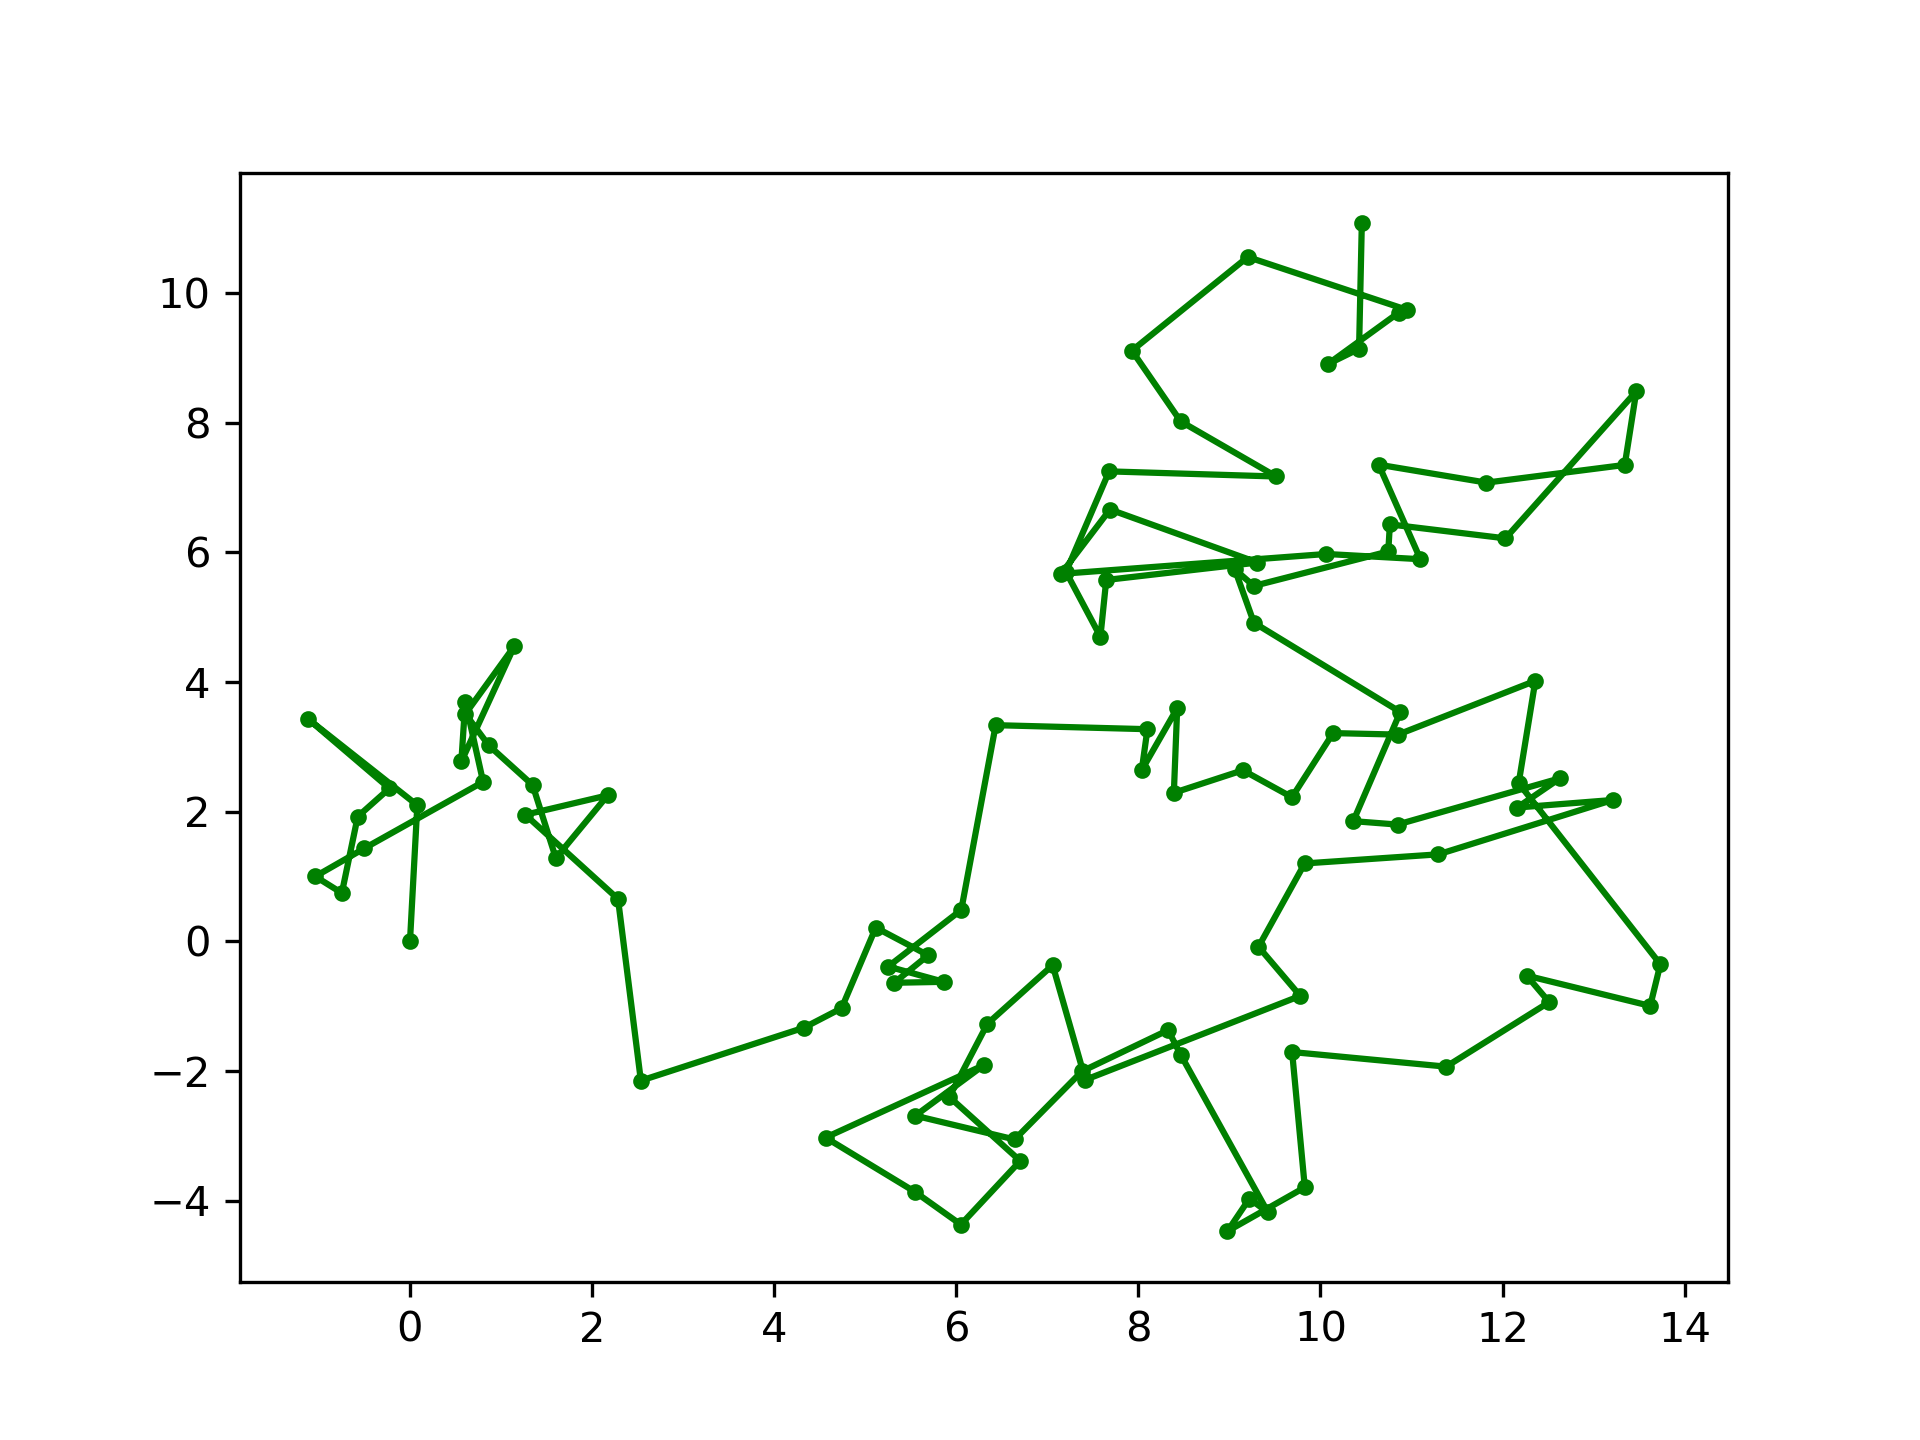
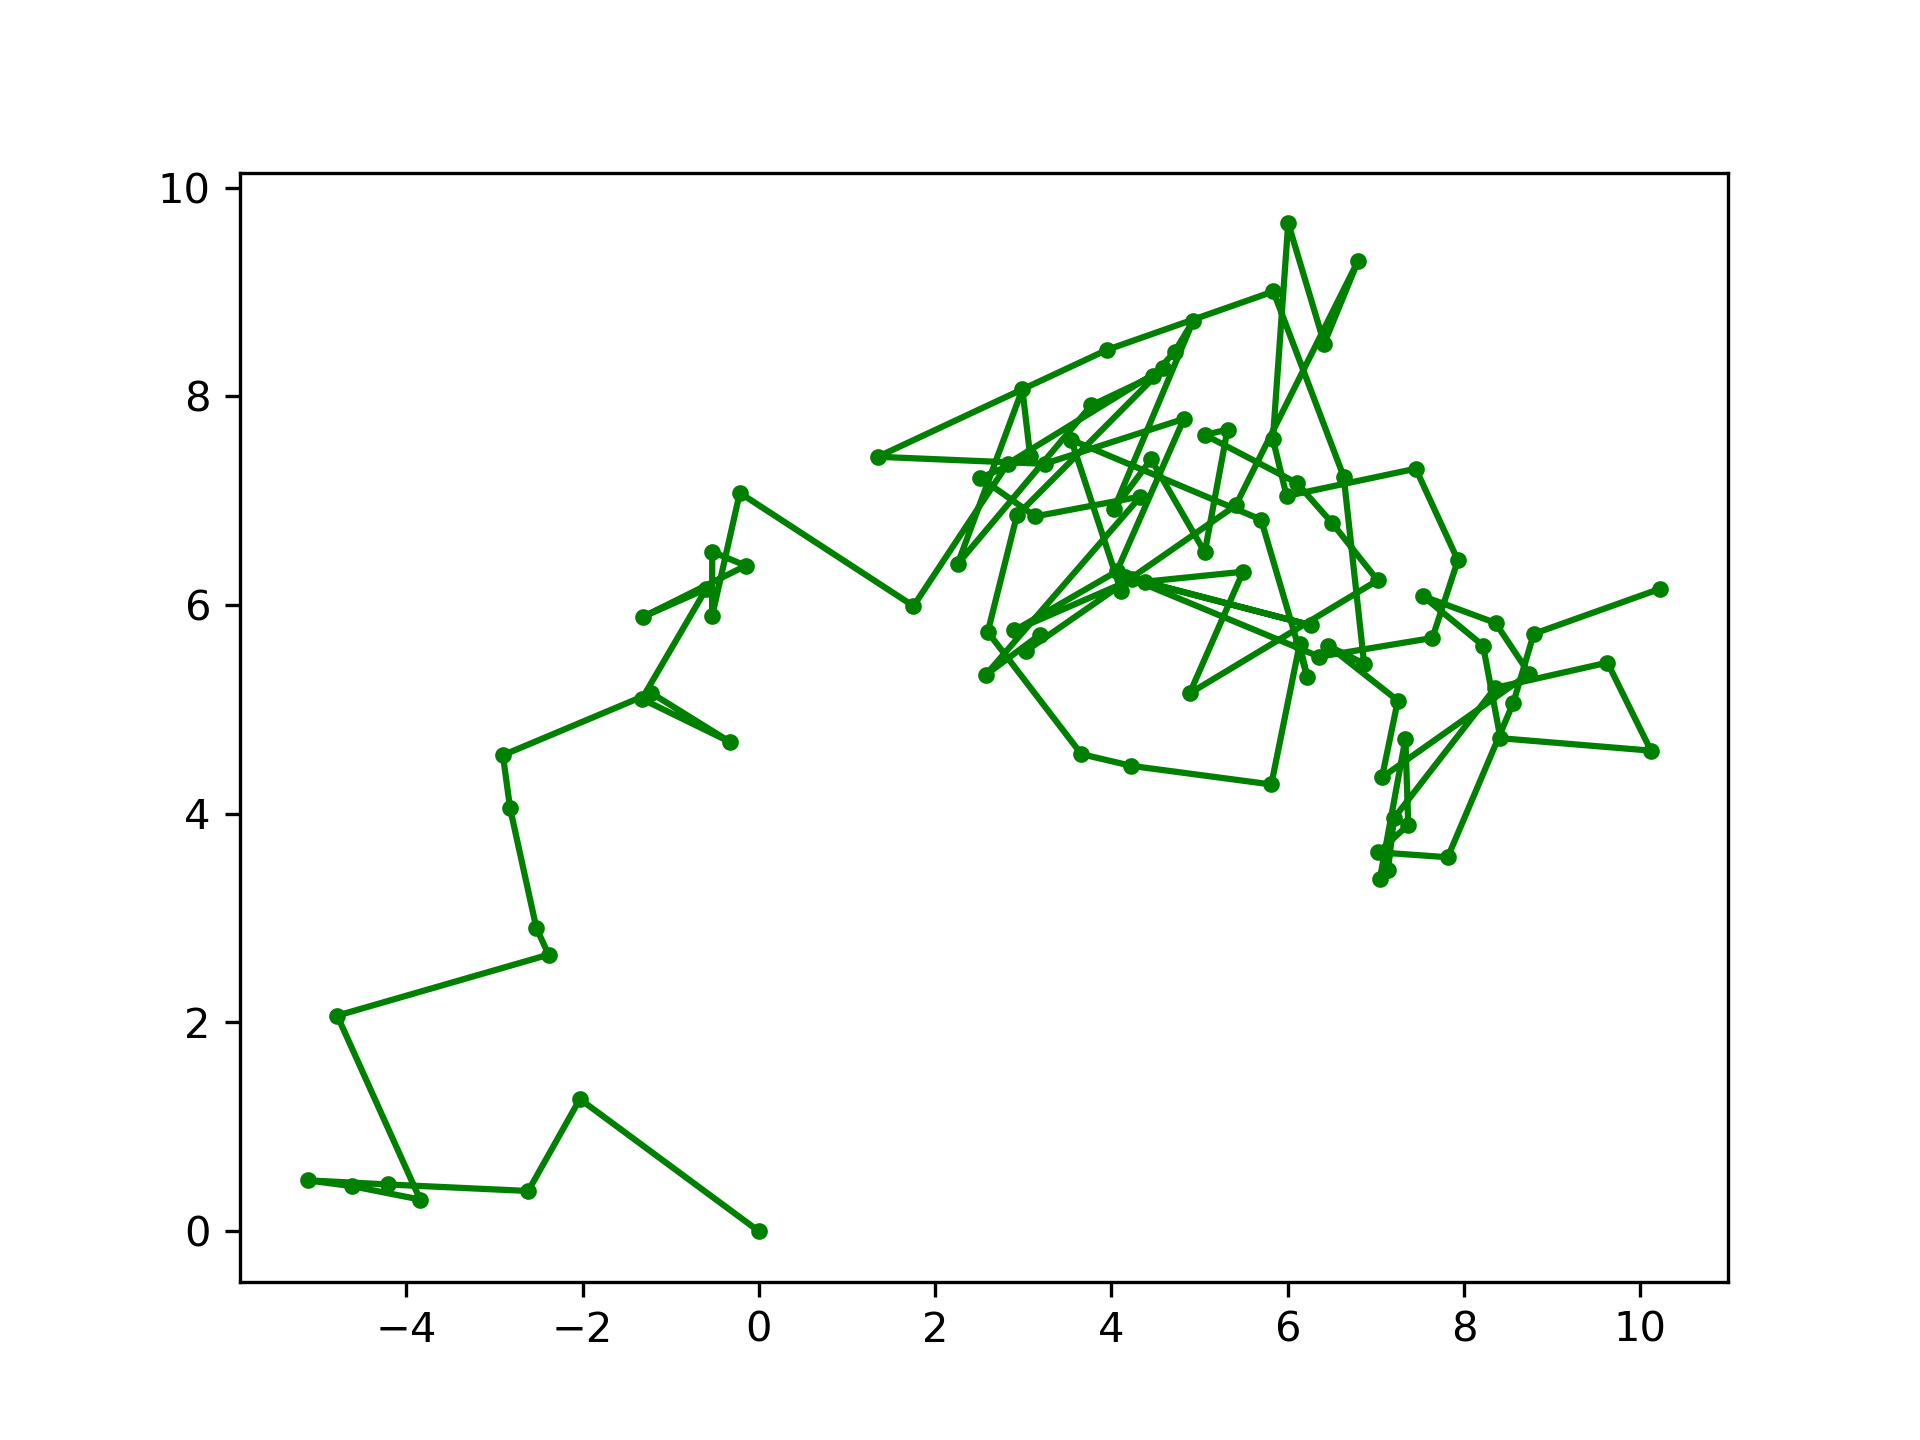
rw

diff --git a/RandomWalker/random_walker.py b/RandomWalker/random_walker.py
@@ -34,5 +34,6 @@ def random_walker(n_steps, folder_name):
 if __name__ == '__main__':
     for i in range(10):
         random_walker(1000, 'random_walks_realisations')
+        random_walker(500, 'random_walks_realisations')
         random_walker(100, 'random_walks_realisations')
         random_walker(10, 'random_walks_realisations')
